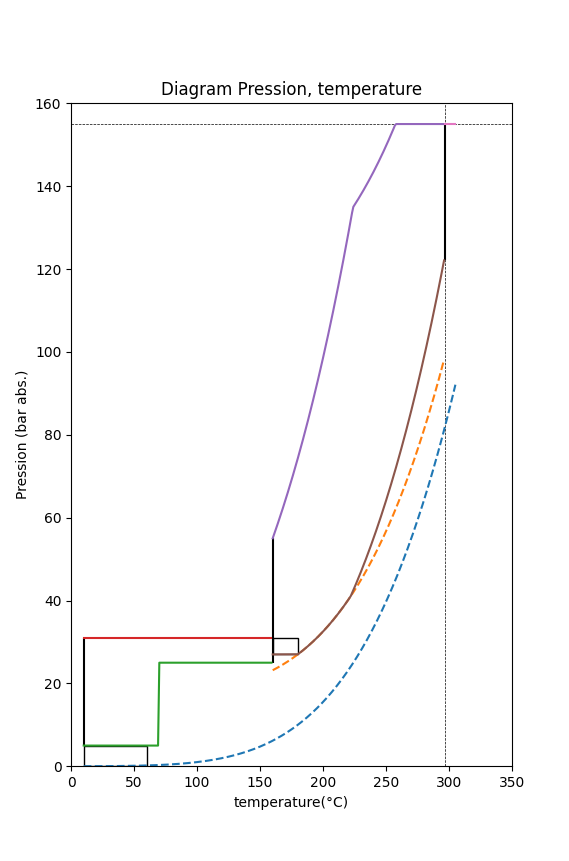
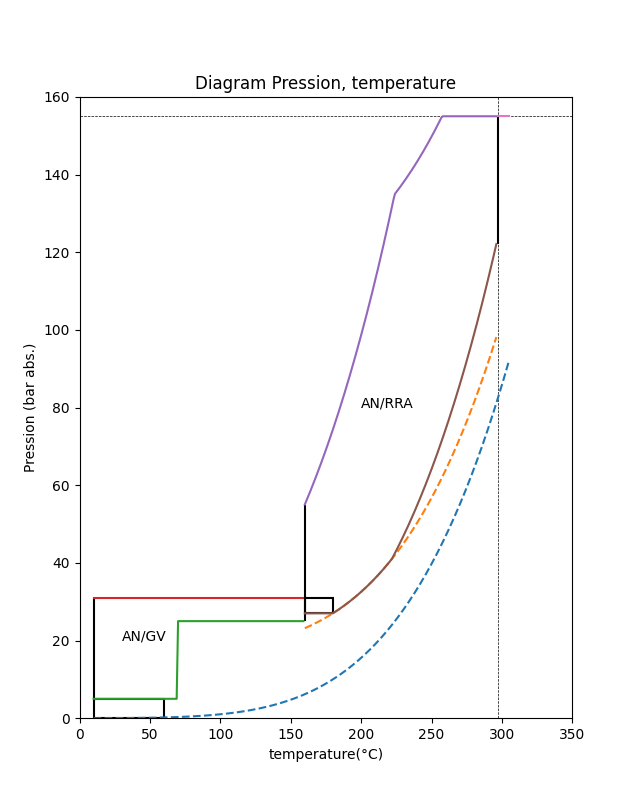
add text to the figure

diff --git a/chaussette.py b/chaussette.py
@@ -140,17 +140,15 @@ def main(args):
     plt.plot(trange_ANGV, prange_ANGV_min)
     plt.plot(trange_RP, prange_RP)
 
-    # plots rectangles
+    # Plots rectangles
     plt.gca().add_patch(plt.Rectangle(
-        [10, 0], 50, 5, fill=False))  #  API domaine
-    #  AN/GV at RRA connection conditions
-    plt.gca().add_patch(plt.Rectangle([160, 27], 20, 4, fill=False))
-
-    #
-    plt.hlines(155, 0, 350, label='155 bar', linewidth=0.5, linestyle='dashed')
-    plt.vlines(297, 0, 200, label='', linewidth=0.5, linestyle='dashed')
+        [10, 0], 50, 5, fill=False, linewidth=1.5))  #  API domaine
+    # AN/GV at RRA connection conditions
+    plt.gca().add_patch(plt.Rectangle([160, 27], 20, 4, fill=False, linewidth=1.5))
 
     # vertical lines eye candy
+    plt.hlines(155, 0, 350, label='155 bar', linewidth=0.5, linestyle='dashed')
+    plt.vlines(297, 0, 200, label='', linewidth=0.5, linestyle='dashed')
     plt.vlines(
         10,
         prange_RRA_min[0],
@@ -166,6 +164,9 @@ def main(args):
         prange_ANGV_min[-1],
         prange_ANGV_max[-1],
         label='limit sup temp AN/GV')
+    # Text
+    plt.text(30, 20, 'AN/GV')
+    plt.text(200, 80, 'AN/RRA')
     # Render the graph
     plt.show()
 
